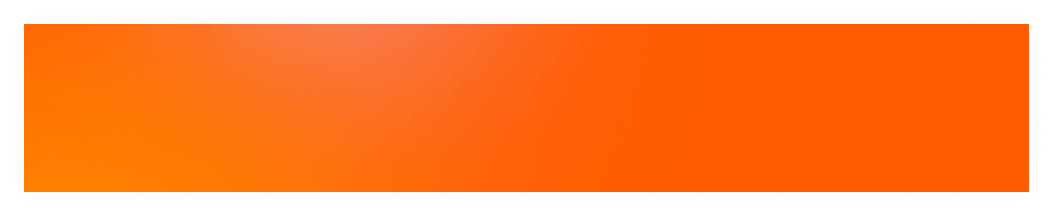
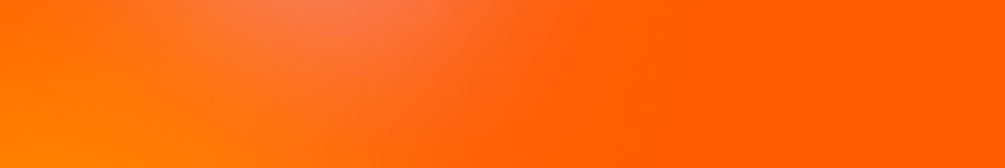
-

Changed region(s): [[0.0, 0.0, 1.0, 1.0]]

diff --git a/assets/css/main.css b/assets/css/main.css
@@ -12,7 +12,7 @@
 .main_wrap > .res_form_wrap .cont > a {padding:0 20px;}
 .main_wrap > .res_form_wrap .cont > a {display:flex; align-items:center; height:54px;border-bottom:1px solid #efefef; box-sizing:border-box;}
 .main_wrap > .res_form_wrap .cont:nth-child(3) > a {border-bottom:0 none;}
-.main_wrap > .res_form_wrap .btn{width:100%; height:56px;background:url('../img/common/btn_bg.jpg') no-repeat center / 110% ; color:#fff;font-weight: 700; border-radius: 0 0 12px 12px; }
+.main_wrap > .res_form_wrap .btn{width:100%; height:56px;background:url('../img/common/btn_bg.jpg') no-repeat center / contain; color:#fff;font-weight: 700; border-radius: 0 0 12px 12px; }
 .main_wrap > .res_form_wrap .cont >  a:before {content:''; display:inline-block; width:15px; height:15px;background-size: 15px; margin-right:10px}
 .main_wrap > .res_form_wrap .ico_place:before{background:url(../img/common/ico_place_20x20.png) no-repeat center / 20px;}
 .main_wrap > .res_form_wrap .ico_date:before {background:url(../img/common/ico_date_20x20.png) no-repeat center / 20px;}
